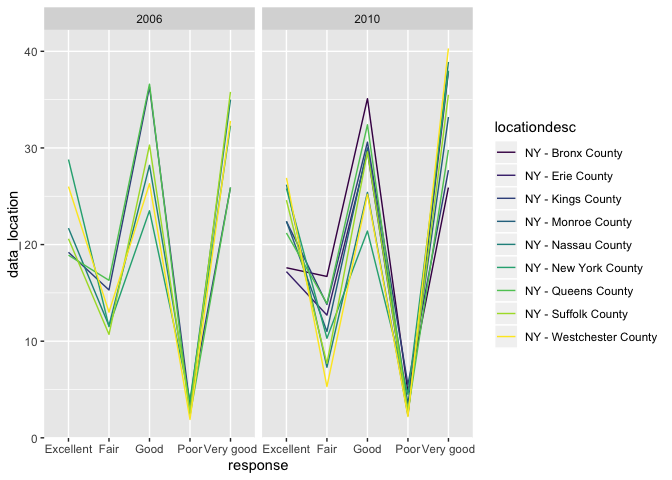
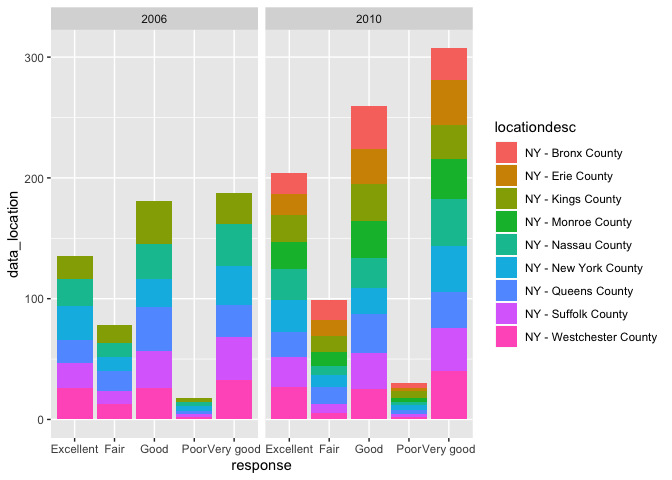
new plot for accel data and weekend and weekday

diff --git a/p8105_hw3_hmb2161.md b/p8105_hw3_hmb2161.md
@@ -439,8 +439,8 @@ ny_state
 ## Plot of NY in 2006 and 2010
 
 ``` r
-ggplot(ny_state, aes(x = response, y = data_location)) +
-  geom_line(aes(group = locationdesc, color = locationdesc)) + 
+ggplot(ny_state, aes(x = response, y = data_location, fill = locationdesc)) +
+  geom_col() + 
   scale_color_viridis(
     name = "locationdesc",
     discrete = TRUE
@@ -460,7 +460,8 @@ accel_data =
     names_to = "minute",
     values_to = "activity_amount"
   ) %>%
-  group_by(day) 
+  group_by(day) %>%
+  mutate(type = if_else(day == c("Sat", "Sun"), "weekend", "weekday"))
 ```
 
     ## Parsed with column specification:
@@ -475,52 +476,79 @@ accel_data =
 accel_data
 ```
 
-    ## # A tibble: 50,400 x 5
+    ## # A tibble: 50,400 x 6
     ## # Groups:   day [7]
-    ##     week day_id day    minute      activity_amount
-    ##    <dbl>  <dbl> <chr>  <chr>                 <dbl>
-    ##  1     1      1 Friday activity_1             88.4
-    ##  2     1      1 Friday activity_2             82.2
-    ##  3     1      1 Friday activity_3             64.4
-    ##  4     1      1 Friday activity_4             70.0
-    ##  5     1      1 Friday activity_5             75.0
-    ##  6     1      1 Friday activity_6             66.3
-    ##  7     1      1 Friday activity_7             53.8
-    ##  8     1      1 Friday activity_8             47.8
-    ##  9     1      1 Friday activity_9             55.5
-    ## 10     1      1 Friday activity_10            43.0
+    ##     week day_id day    minute      activity_amount type   
+    ##    <dbl>  <dbl> <chr>  <chr>                 <dbl> <chr>  
+    ##  1     1      1 Friday activity_1             88.4 weekday
+    ##  2     1      1 Friday activity_2             82.2 weekday
+    ##  3     1      1 Friday activity_3             64.4 weekday
+    ##  4     1      1 Friday activity_4             70.0 weekday
+    ##  5     1      1 Friday activity_5             75.0 weekday
+    ##  6     1      1 Friday activity_6             66.3 weekday
+    ##  7     1      1 Friday activity_7             53.8 weekday
+    ##  8     1      1 Friday activity_8             47.8 weekday
+    ##  9     1      1 Friday activity_9             55.5 weekday
+    ## 10     1      1 Friday activity_10            43.0 weekday
     ## # … with 50,390 more rows
 
   - In this new dataset there are 5 columns instead of over a 1400.
     There are now rows and columns. The variables are week, day\_id,
     day, minute of the day, and amount of activity in that minute.
 
-NEED TO ADD WEEK DAY AND WEEKEND VARIABLES
-
 \#\#Total activity per day
 
 ``` r
 accel_data %>%
-  group_by(week) %>%
+  group_by(week, day) %>%
   mutate(mean_activity = mean(activity_amount)) %>%
-  group_by(day_id)
+  select(-minute, -activity_amount) %>%
+  group_by(day) %>%
+  distinct() %>%
+  pivot_wider(
+    names_from = "day",
+    values_from = "mean_activity"
+  ) %>%
+  knitr::kable()
 ```
 
-    ## # A tibble: 50,400 x 6
-    ## # Groups:   day_id [35]
-    ##     week day_id day    minute      activity_amount mean_activity
-    ##    <dbl>  <dbl> <chr>  <chr>                 <dbl>         <dbl>
-    ##  1     1      1 Friday activity_1             88.4          255.
-    ##  2     1      1 Friday activity_2             82.2          255.
-    ##  3     1      1 Friday activity_3             64.4          255.
-    ##  4     1      1 Friday activity_4             70.0          255.
-    ##  5     1      1 Friday activity_5             75.0          255.
-    ##  6     1      1 Friday activity_6             66.3          255.
-    ##  7     1      1 Friday activity_7             53.8          255.
-    ##  8     1      1 Friday activity_8             47.8          255.
-    ##  9     1      1 Friday activity_9             55.5          255.
-    ## 10     1      1 Friday activity_10            43.0          255.
-    ## # … with 50,390 more rows
+| week | day\_id | type    |   Friday |    Monday | Saturday |    Sunday | Thursday |  Tuesday | Wednesday |
+| ---: | ------: | :------ | -------: | --------: | -------: | --------: | -------: | -------: | --------: |
+|    1 |       1 | weekday | 333.7102 |        NA |       NA |        NA |       NA |       NA |        NA |
+|    1 |       2 | weekday |       NA |  54.74171 |       NA |        NA |       NA |       NA |        NA |
+|    1 |       3 | weekday |       NA |        NA | 261.2875 |        NA |       NA |       NA |        NA |
+|    1 |       4 | weekday |       NA |        NA |       NA | 438.26736 |       NA |       NA |        NA |
+|    1 |       5 | weekday |       NA |        NA |       NA |        NA | 247.1692 |       NA |        NA |
+|    1 |       6 | weekday |       NA |        NA |       NA |        NA |       NA | 213.2599 |        NA |
+|    1 |       7 | weekday |       NA |        NA |       NA |        NA |       NA |       NA |  236.1910 |
+|    2 |       8 | weekday | 395.0271 |        NA |       NA |        NA |       NA |       NA |        NA |
+|    2 |       9 | weekday |       NA | 205.16042 |       NA |        NA |       NA |       NA |        NA |
+|    2 |      10 | weekday |       NA |        NA | 421.6493 |        NA |       NA |       NA |        NA |
+|    2 |      11 | weekday |       NA |        NA |       NA | 293.06806 |       NA |       NA |        NA |
+|    2 |      12 | weekday |       NA |        NA |       NA |        NA | 329.2000 |       NA |        NA |
+|    2 |      13 | weekday |       NA |        NA |       NA |        NA |       NA | 293.9201 |        NA |
+|    2 |      14 | weekday |       NA |        NA |       NA |        NA |       NA |       NA |  306.2236 |
+|    3 |      15 | weekday | 324.5972 |        NA |       NA |        NA |       NA |       NA |        NA |
+|    3 |      16 | weekday |       NA | 476.32639 |       NA |        NA |       NA |       NA |        NA |
+|    3 |      17 | weekday |       NA |        NA | 265.9222 |        NA |       NA |       NA |        NA |
+|    3 |      18 | weekday |       NA |        NA |       NA | 324.34167 |       NA |       NA |        NA |
+|    3 |      19 | weekday |       NA |        NA |       NA |        NA | 257.7986 |       NA |        NA |
+|    3 |      20 | weekday |       NA |        NA |       NA |        NA |       NA | 264.9354 |        NA |
+|    3 |      21 | weekday |       NA |        NA |       NA |        NA |       NA |       NA |  325.6035 |
+|    4 |      22 | weekday | 106.9785 |        NA |       NA |        NA |       NA |       NA |        NA |
+|    4 |      23 | weekday |       NA | 284.34028 |       NA |        NA |       NA |       NA |        NA |
+|    4 |      24 | weekday |       NA |        NA |   1.0000 |        NA |       NA |       NA |        NA |
+|    4 |      25 | weekday |       NA |        NA |       NA | 180.98403 |       NA |       NA |        NA |
+|    4 |      26 | weekday |       NA |        NA |       NA |        NA | 236.3132 |       NA |        NA |
+|    4 |      27 | weekday |       NA |        NA |       NA |        NA |       NA | 221.9222 |        NA |
+|    4 |      28 | weekday |       NA |        NA |       NA |        NA |       NA |       NA |  301.7083 |
+|    5 |      29 | weekday | 431.1528 |        NA |       NA |        NA |       NA |       NA |        NA |
+|    5 |      30 | weekday |       NA | 270.19444 |       NA |        NA |       NA |       NA |        NA |
+|    5 |      31 | weekday |       NA |        NA |   1.0000 |        NA |       NA |       NA |        NA |
+|    5 |      32 | weekday |       NA |        NA |       NA |  96.12569 |       NA |       NA |        NA |
+|    5 |      33 | weekday |       NA |        NA |       NA |        NA | 381.7069 |       NA |        NA |
+|    5 |      34 | weekday |       NA |        NA |       NA |        NA |       NA | 255.4333 |        NA |
+|    5 |      35 | weekday |       NA |        NA |       NA |        NA |       NA |       NA |  309.2819 |
 
 minrank\!
 
